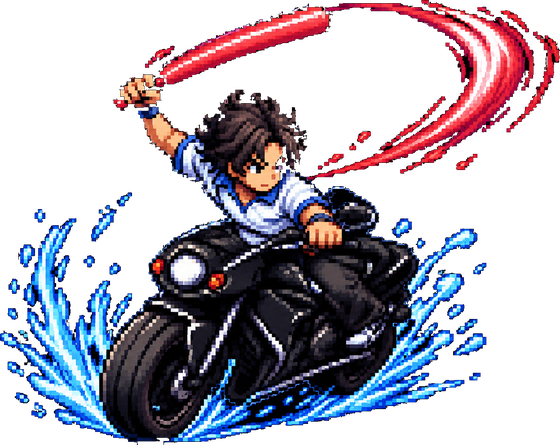
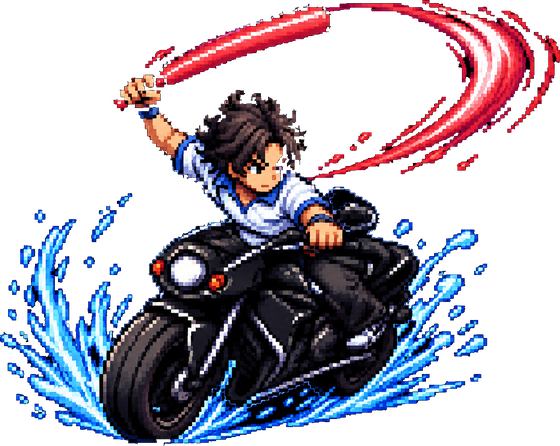
ヌードルライダーFT・車いすの敵の切り抜きをやり直す
Claude-Session: https://claude.ai/code/session_01SgxQj51oxj8U6LdyTUNfPo

diff --git a/index.html b/index.html
@@ -499,8 +499,8 @@ const ENEMIES = [
   { src: "enemy31.png", h: 48, ar: 1.107, alt: "茶色いトゲトゲの敵" },
   { src: "nd-awaken5.png", h: 68, ar: 1.454, alt: "白骨ヌードルモンスター", tag: "回廊ボス", where: "【ボス】無限回廊の6つめのステージの最後。体力10(10回正解で撃破)。地獄の底で苦しみつづける、ヌードルモンスターの成れの果て。" },
   { src: "nd-pose.png", h: 72, ar: 1.482, alt: "ポセイドン", tag: "最終ボス", where: "【最終ボス】無限回廊の最終階層に入ると、すぐに現れる。体力は、そのときの残り問題数ぶん(全問正解で撃破)。攻撃力は通常の1.5倍。無限回廊の頂点に立つ、水底の王。" },
-  { src: "enemy32.png", h: 62, ar: 1.258, alt: "ヌードルライダーFT", tag: "超激レア", where: "【超激レア】どの挑戦でも、とてもまれに現れる(約1000問に1回)。1回の挑戦で出るのは1回まで。出会えたら、かなりのラッキー!" },
-  { src: "enemy33.png", h: 60, ar: 0.974, alt: "車いすを押すゾンビとガイコツ", tag: "レア", where: "【レア】どの挑戦でも、ときどき現れる(約80問に1回)。1回の挑戦で出るのは1回まで。" }
+  { src: "enemy32.png", h: 62, ar: 1.256, alt: "ヌードルライダーFT", tag: "超激レア", where: "【超激レア】どの挑戦でも、とてもまれに現れる(約1000問に1回)。1回の挑戦で出るのは1回まで。出会えたら、かなりのラッキー!" },
+  { src: "enemy33.png", h: 60, ar: 0.970, alt: "車いすを押すゾンビとガイコツ", tag: "レア", where: "【レア】どの挑戦でも、ときどき現れる(約80問に1回)。1回の挑戦で出るのは1回まで。" }
 ]; // 9〜12は特別な敵(ふつうの抽選には出ない)。13以降はふつうの敵(上級・レート戦の抽選に入る)
 function enemyIdx(mode) {
   const m = MODES[mode];
